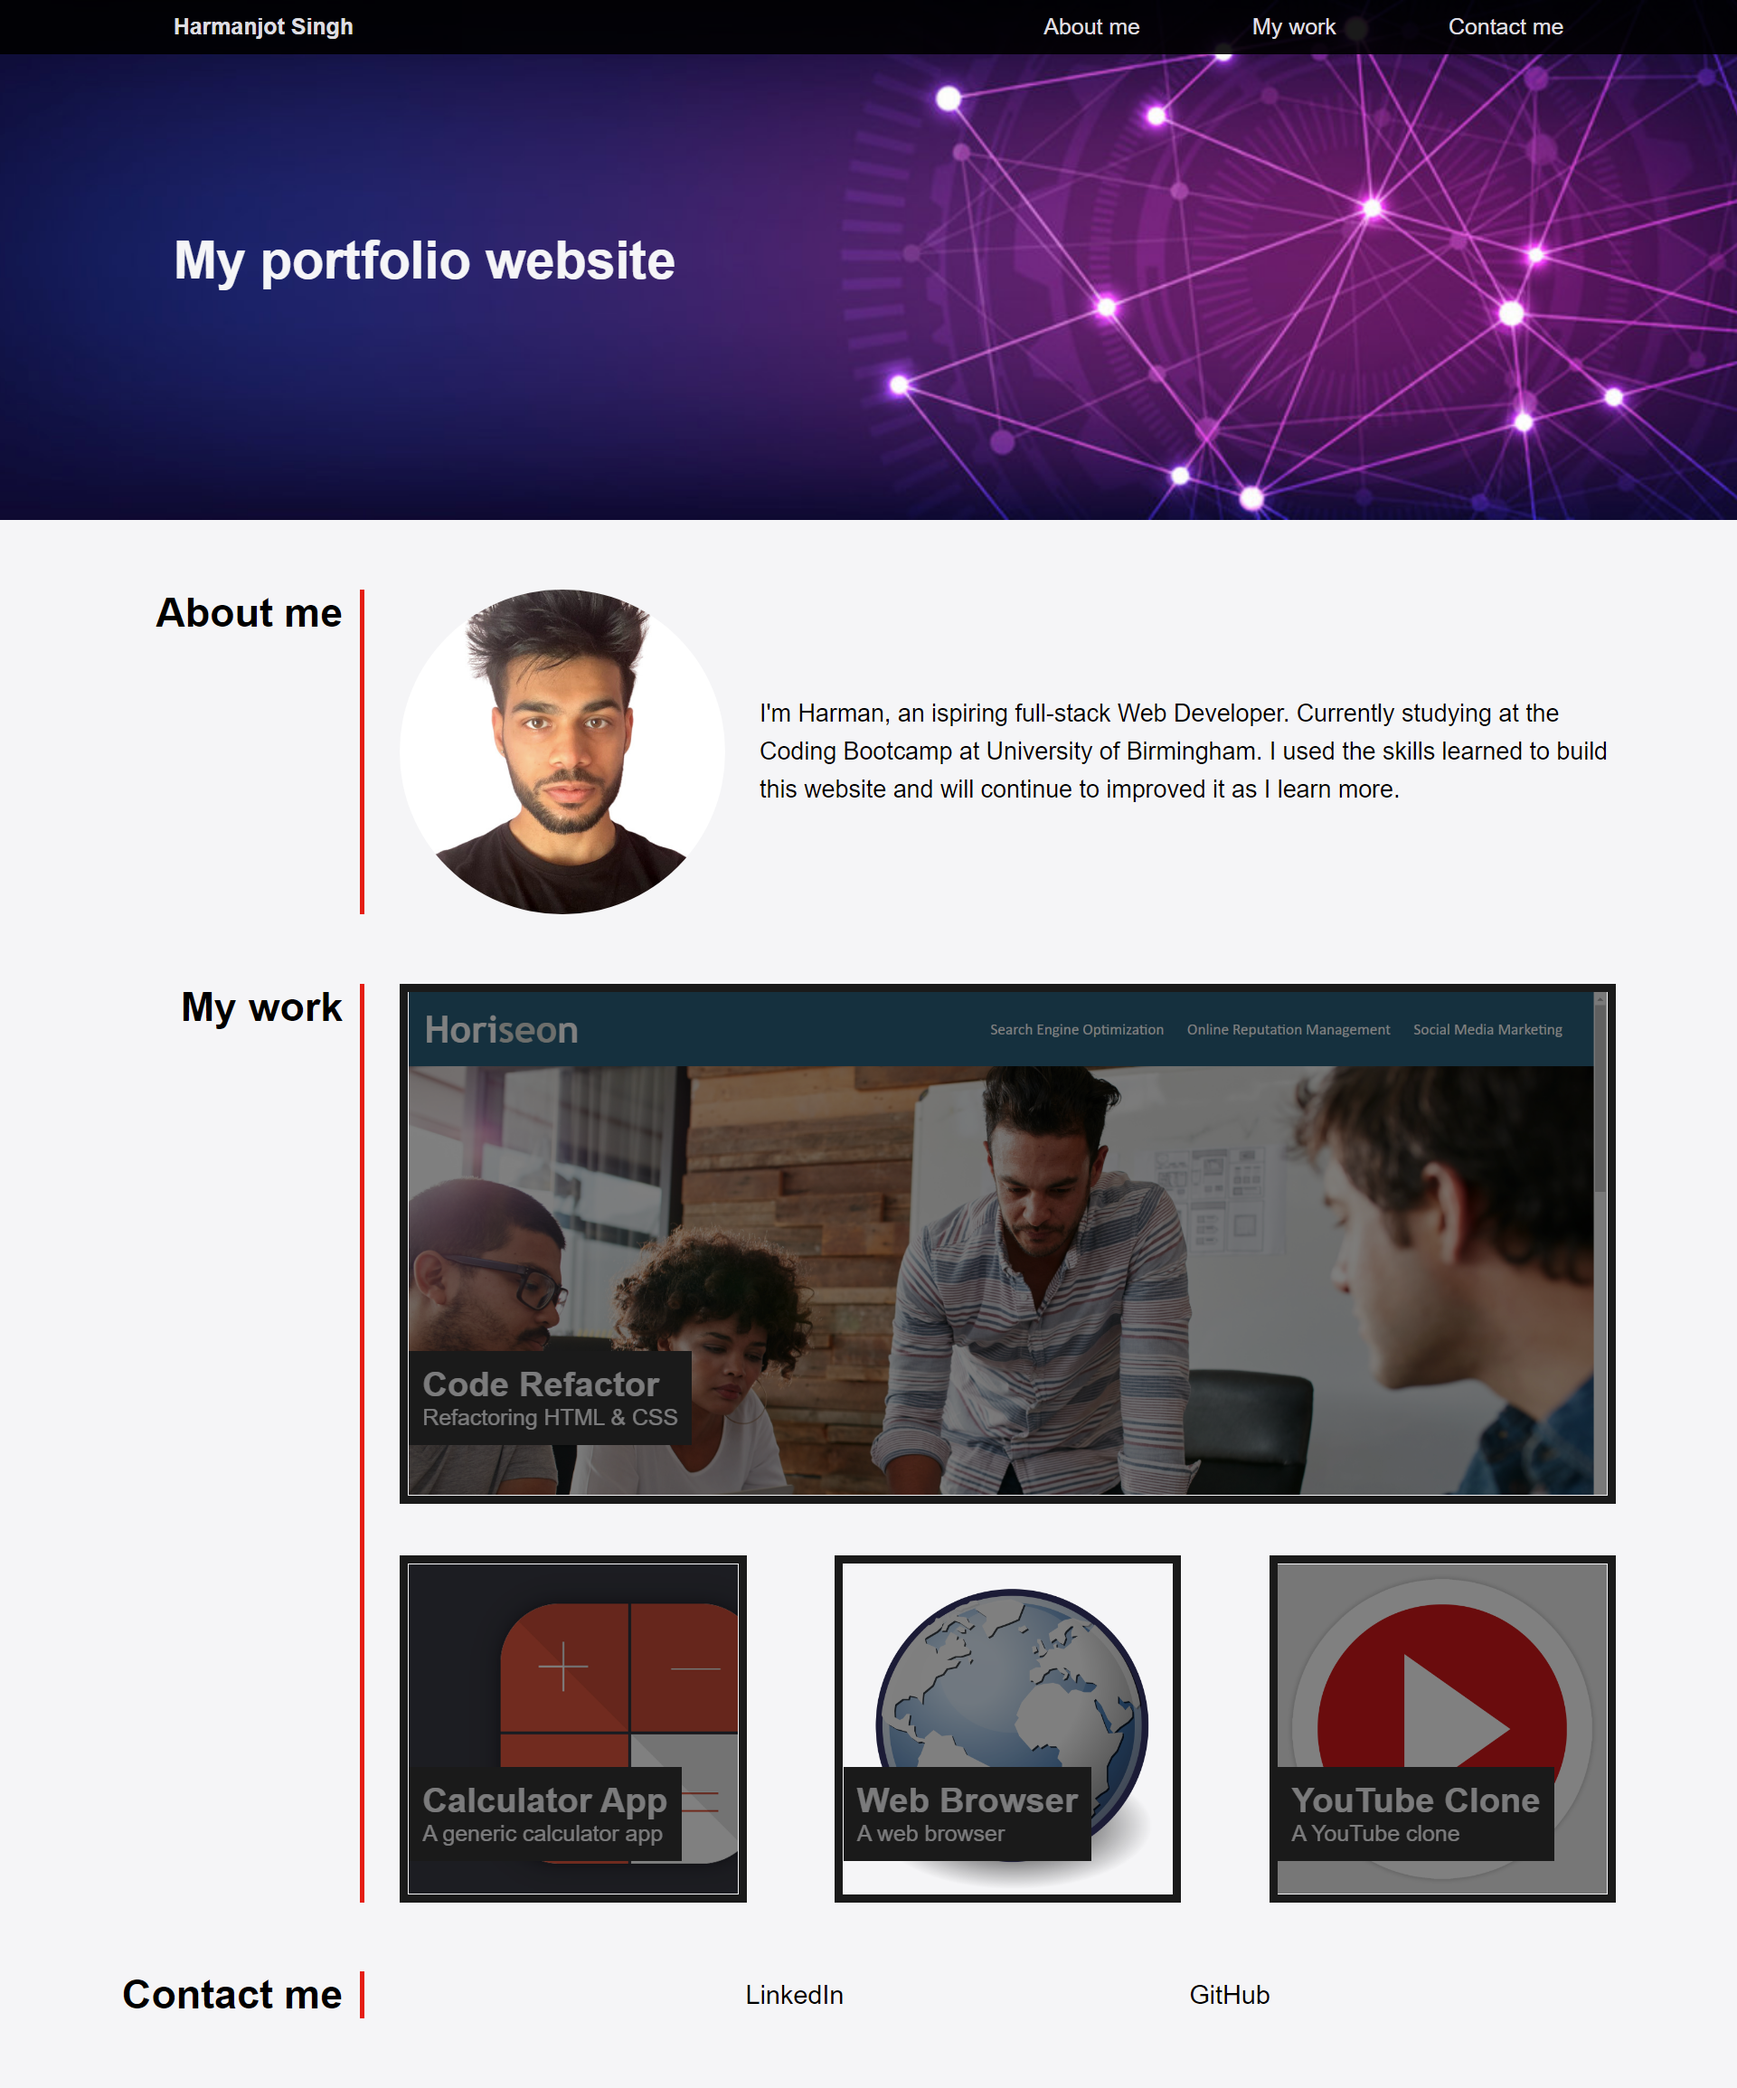
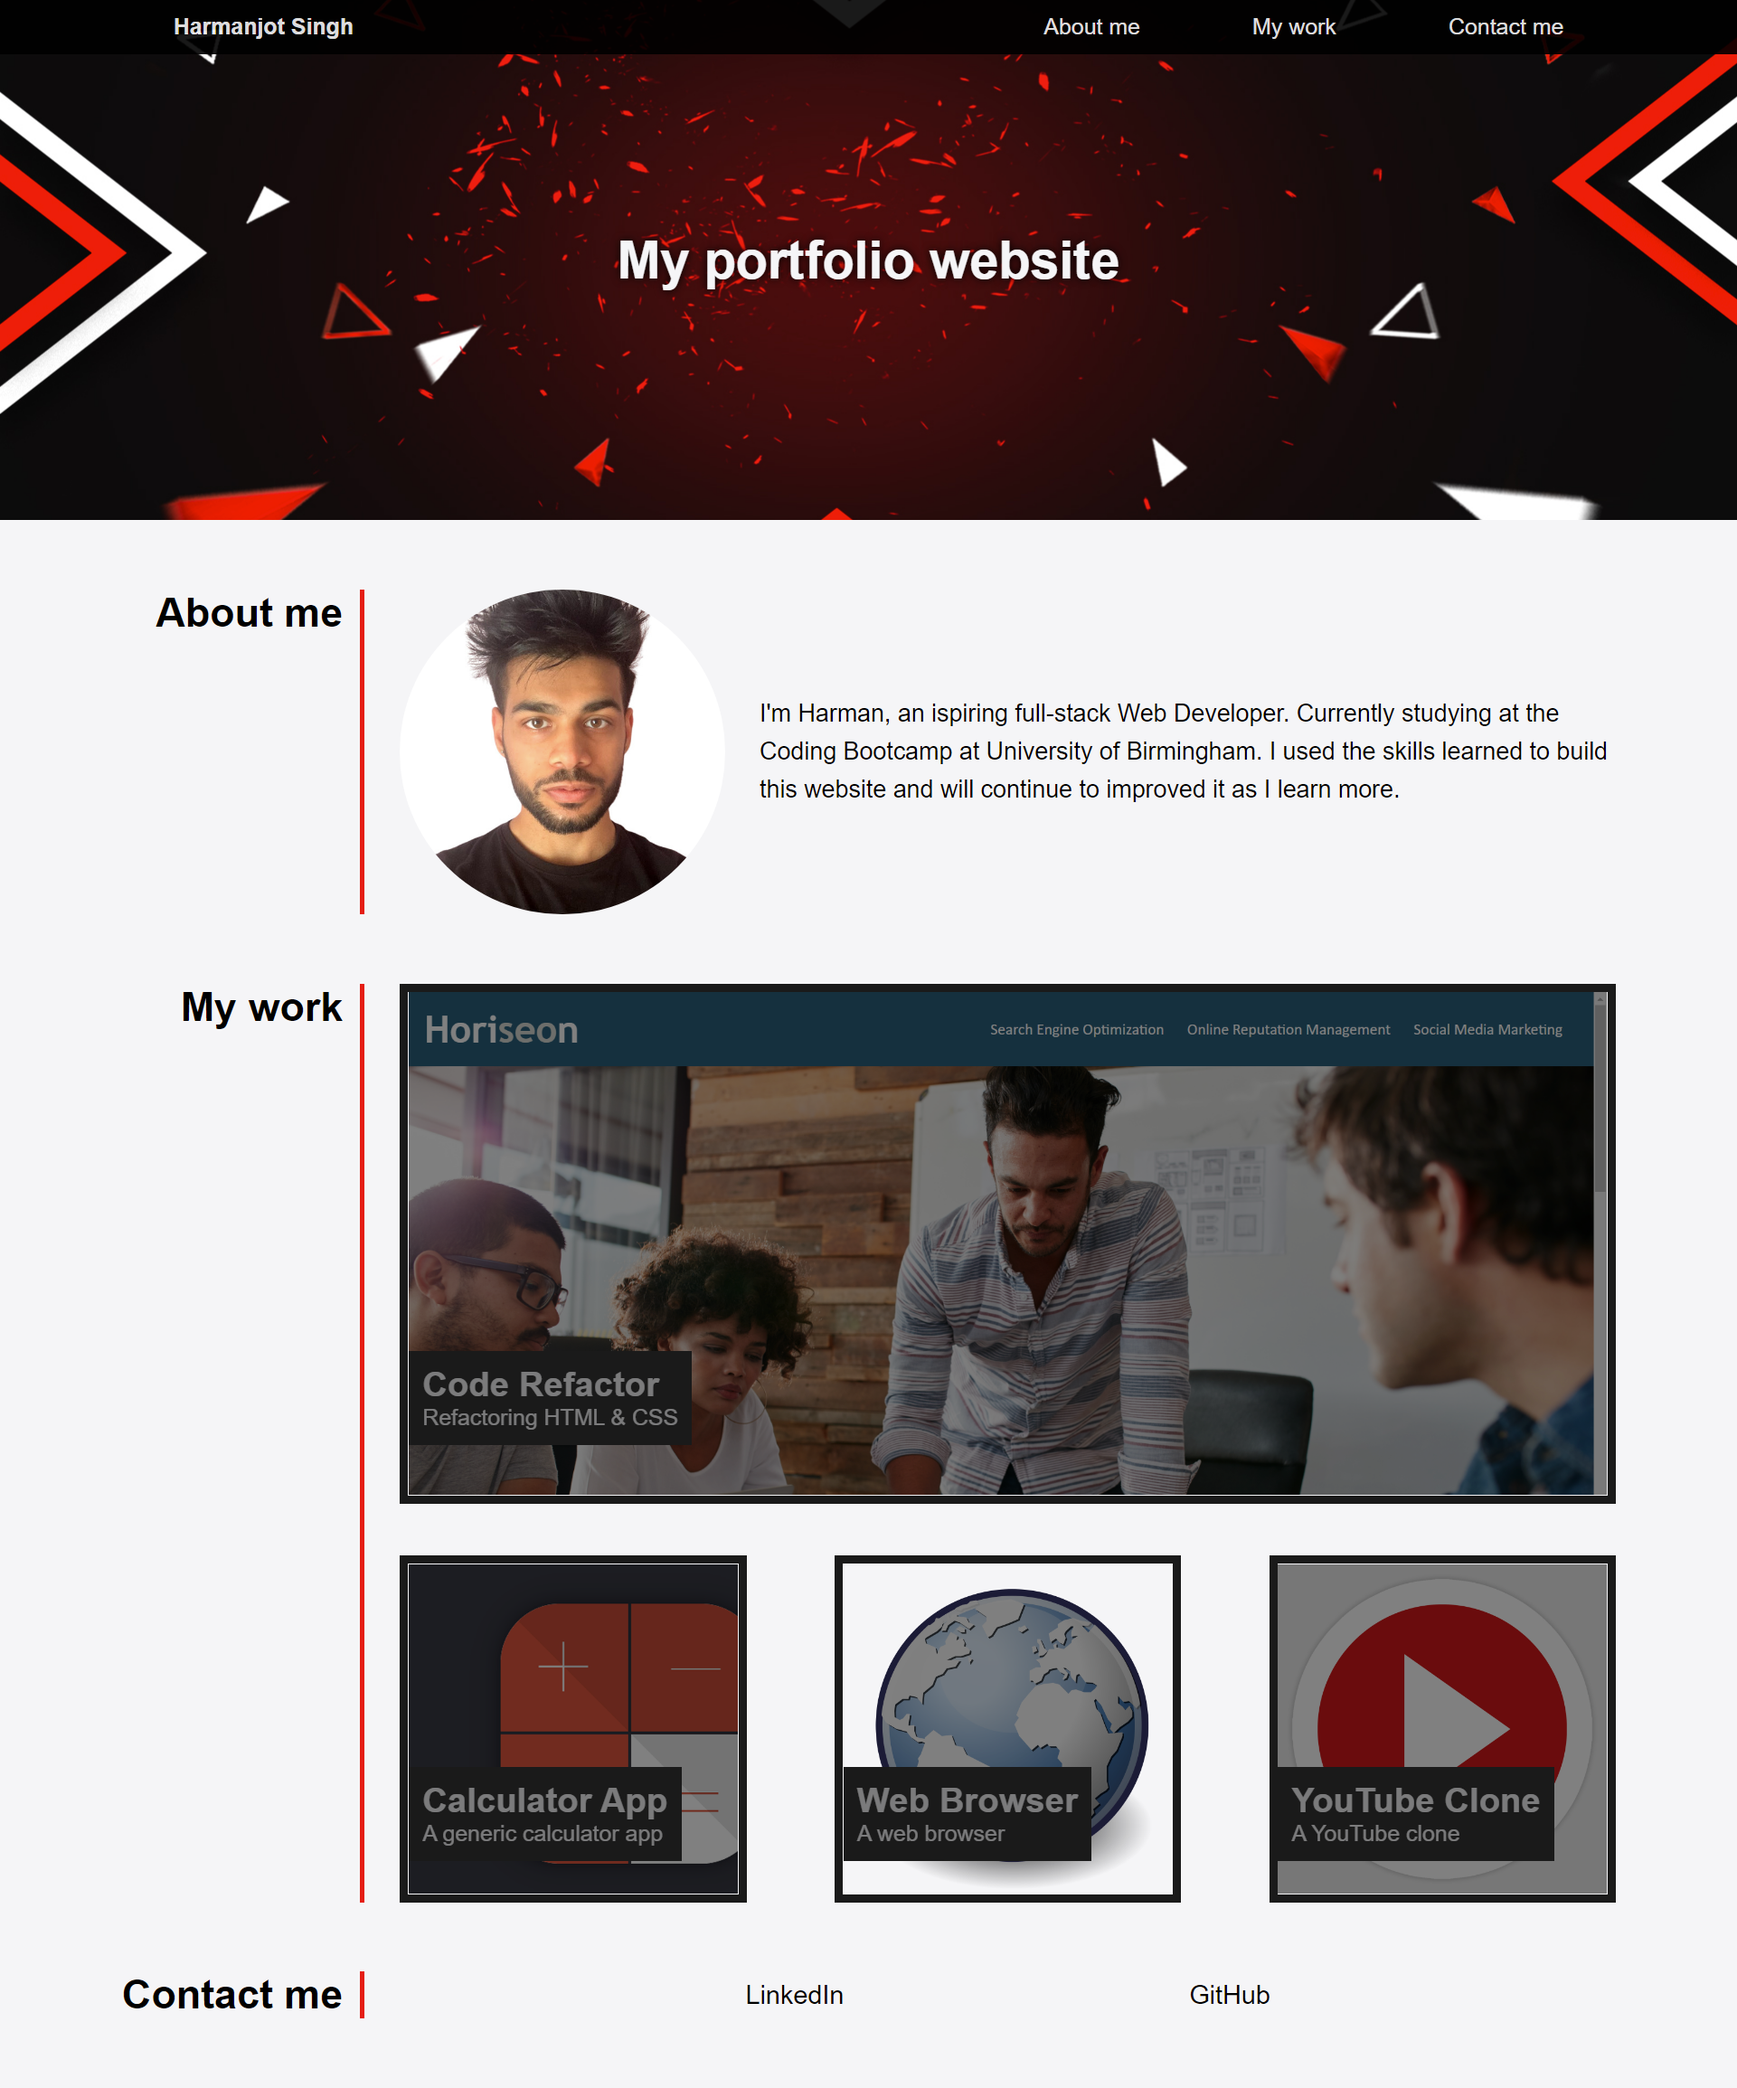
Centered a title and updated preview image

Changed region(s): [[0.0, 0.0, 1.0, 0.2495]]

diff --git a/assets/css/styles.css b/assets/css/styles.css
@@ -76,7 +76,8 @@ ul {
 /* Style for title on the banner image */
 .banner h2 {
     font-size: 3rem;
-    margin-left: 10rem;
+    width: 100%;
+    text-align: center;
     text-shadow: 0rem 0rem 0.5rem var(--black);
 }
 
@@ -232,7 +233,6 @@ h4 {
     }
 
     .banner h2 {
-        margin-left: 1.5rem;
         font-size: 1.2rem;
     }
 
